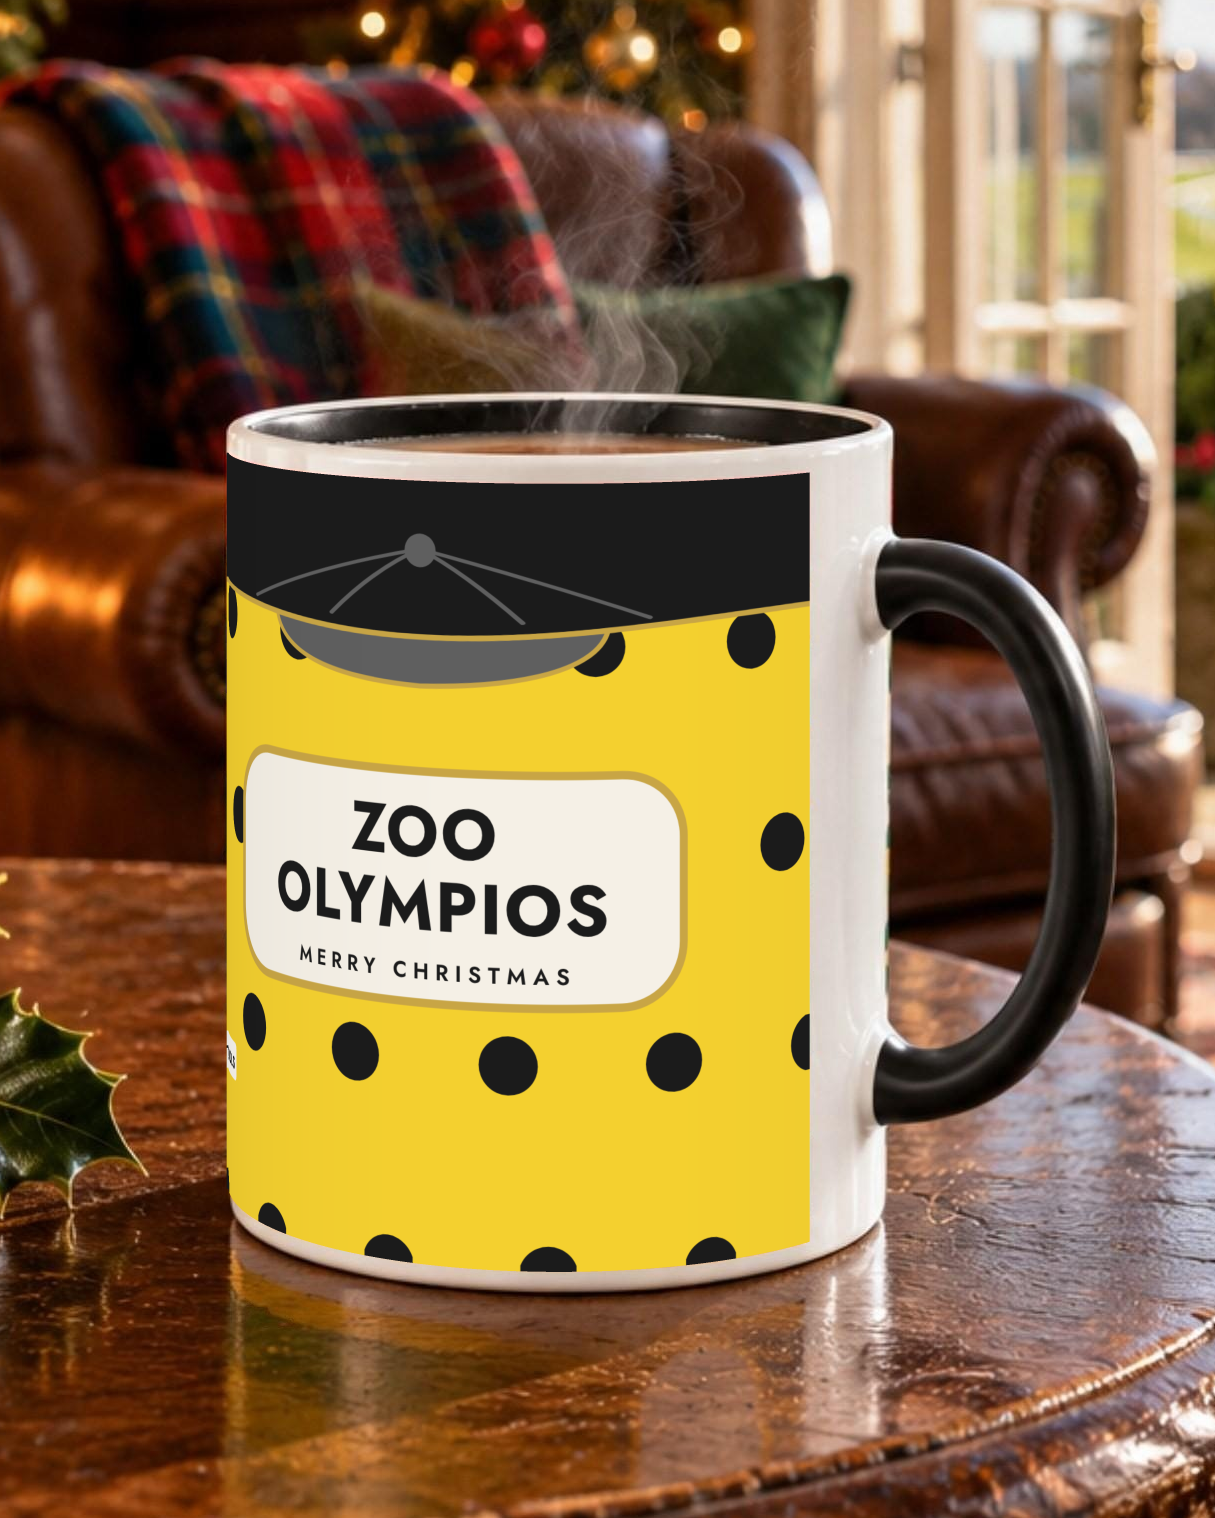
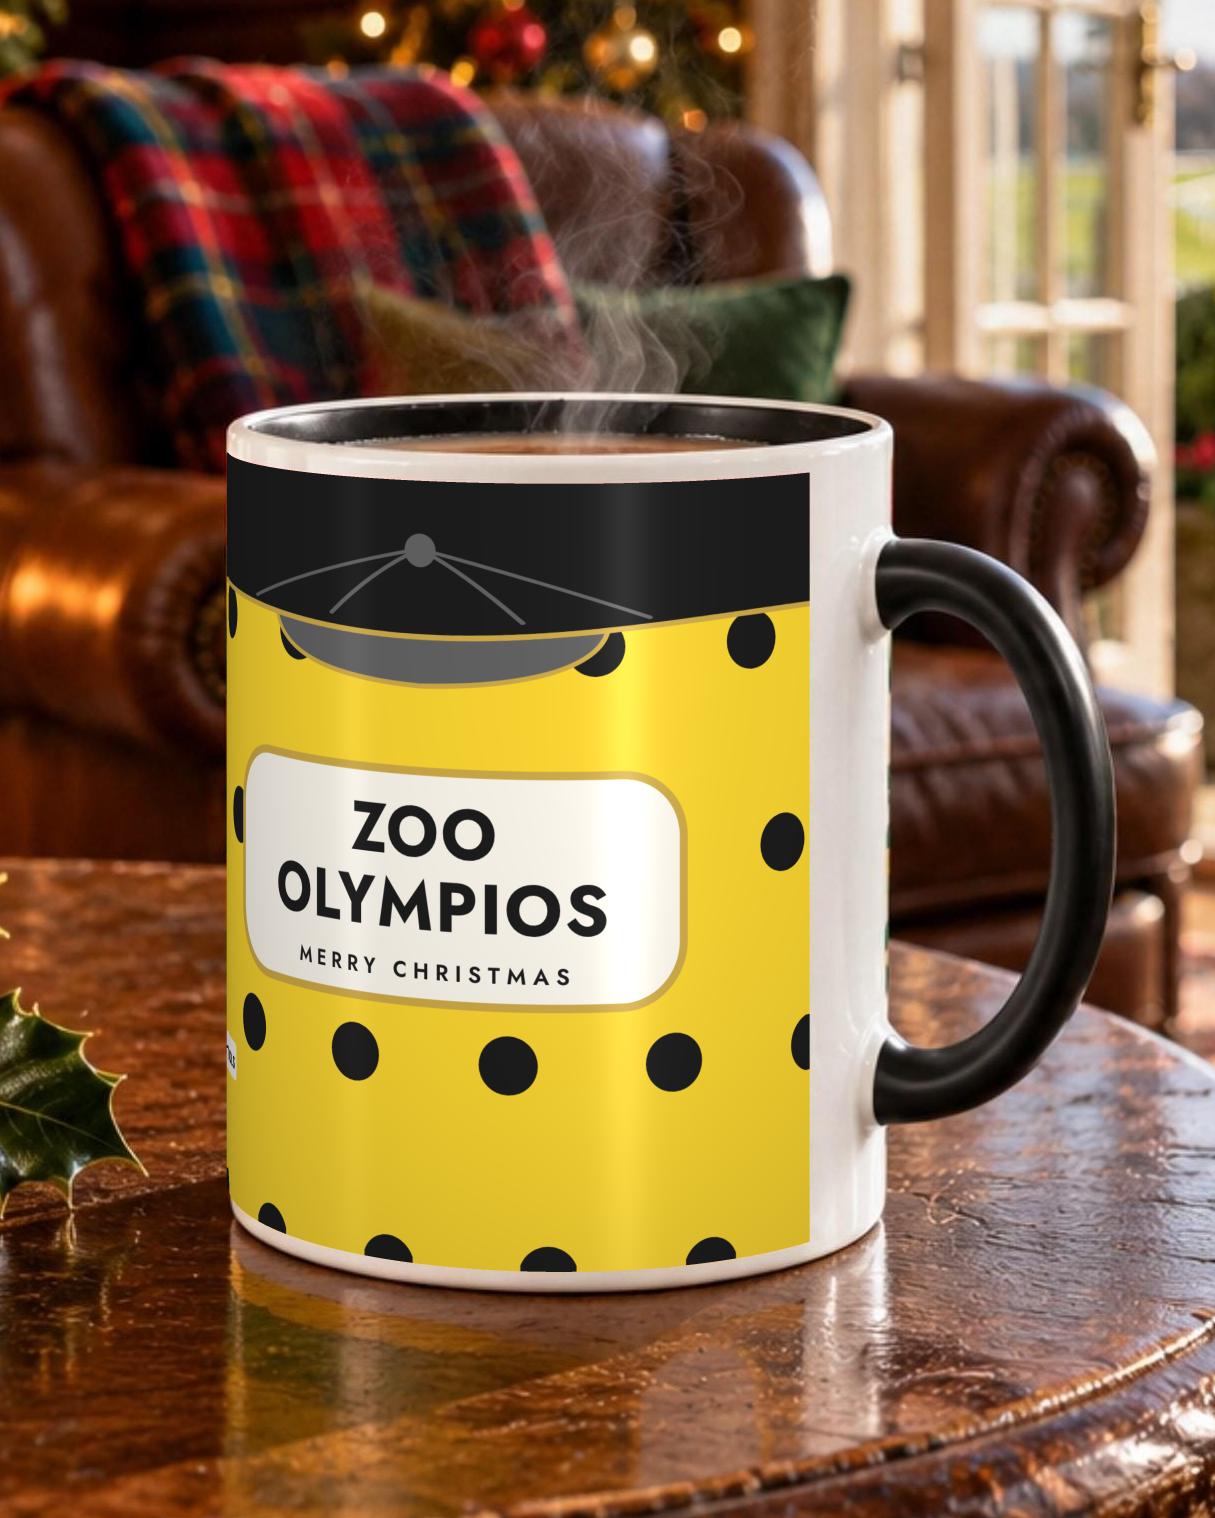
Mug B scene photos: cylinder shading + soft highlight
Claude-Session: https://claude.ai/code/session_012o9aG4Q2FPZVtw19tvwRpK

Changed region(s): [[0.1827, 0.3715, 0.3959, 0.836], [0.4872, 0.4025, 0.5481, 0.6812], [0.6091, 0.805, 0.67, 0.836]]

diff --git a/print-qa/2026-11-26-mugB/scene/scene.py b/print-qa/2026-11-26-mugB/scene/scene.py
@@ -28,8 +28,11 @@ def wrap(art_png, out):
     fxc = np.clip(fx, 0, AW - 2); x0i = fxc.astype(int); wx = (fxc - x0i)[..., None]
     y0i = np.clip(fy, 0, AH - 2).astype(int); wy = (np.clip(fy, 0, AH - 2) - y0i)[..., None]
     smp = art[y0i, x0i] * (1 - wx) * (1 - wy) + art[y0i, x0i + 1] * wx * (1 - wy) + art[y0i + 1, x0i] * (1 - wx) * wy + art[y0i + 1, x0i + 1] * wx * wy
-    shade = (0.915 + 0.085 * cz ** 0.6)[..., None]
-    lit = np.clip(smp * shade, 0, 255)
+    side = np.where(u < 0, 0.74 + 0.26 * cz ** 0.7, 0.88 + 0.12 * cz ** 0.7)       # darker to both edges (more on the shadow side)
+    shade = (side * (1 - 0.10 * v ** 3))[..., None]
+    streak = (0.13 * np.exp(-((u - 0.20) / 0.07) ** 2) + 0.05 * np.exp(-((u - 0.20) / 0.22) ** 2) + 0.06 * np.exp(-((u + 0.62) / 0.05) ** 2))
+    streak = (streak * (1 - 0.6 * v ** 2))[..., None]
+    lit = np.clip(smp * shade + 255 * streak * (0.45 + 0.55 * smp.mean(-1, keepdims=True) / 255), 0, 255)
     cov = ok.astype(float)[..., None]
     def down(a): h, w = a.shape[:2]; return a.reshape(h // SS, SS, w // SS, SS, -1).mean((1, 3))
     covd = down(cov); litd = down(lit * cov) / np.maximum(covd, 1e-6)
